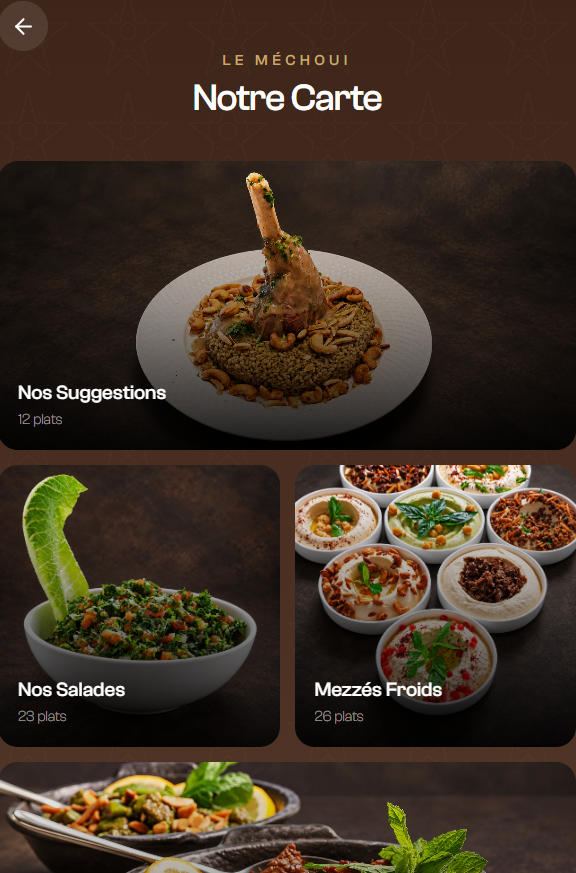
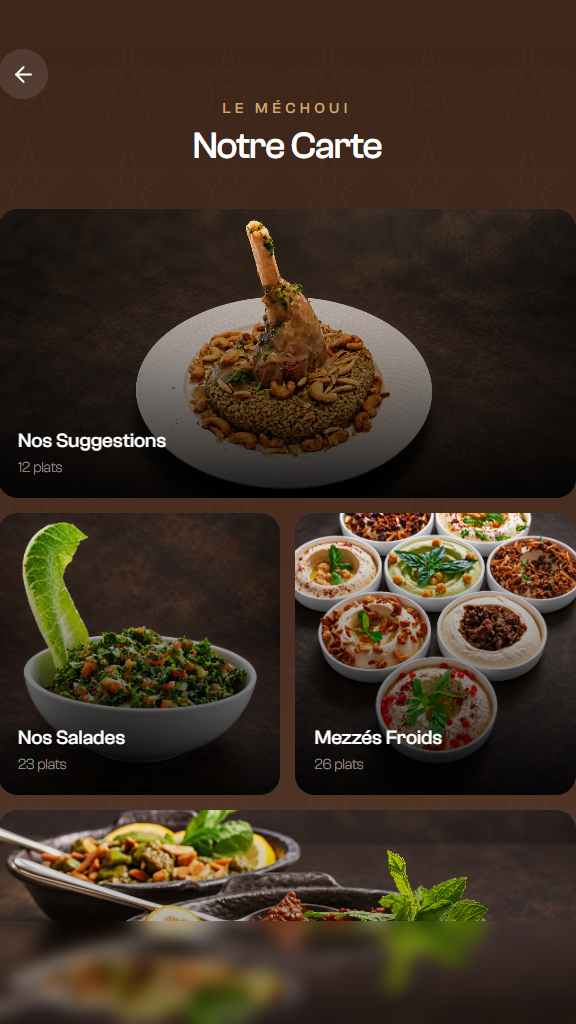
Mise a jour smartphone 9:16 et integration des 4 interfaces de Le Mechoui

diff --git a/index.html b/index.html
@@ -70,16 +70,19 @@
             </div>
           </div>
 
-          <!-- Écran intérieur du téléphone : diaporama animé avec transitions PowerPoint -->
+          <!-- Écran intérieur du téléphone : diaporama animé des interfaces Le Méchoui -->
           <div class="phone-screen" id="phoneScreen">
-            <div class="phone-slide is-active" data-index="0" role="tabpanel" aria-label="Menu Le Méchoui">
-              <img src="images/menu_mechoui.png" alt="Menu Le Méchoui" loading="eager" />
+            <div class="phone-slide is-active" data-index="0" role="tabpanel" aria-label="Le Méchoui - Choix de la langue">
+              <img src="images/menu_mechoui_langues.png" alt="Le Méchoui - Choix de la langue" loading="eager" />
             </div>
-            <div class="phone-slide" data-index="1" role="tabpanel" aria-label="Menu Rico Café">
-              <img src="images/menu_rico.png" alt="Menu Rico Café" loading="lazy" />
+            <div class="phone-slide" data-index="1" role="tabpanel" aria-label="Le Méchoui - Accueil & Services">
+              <img src="images/menu_mechoui_accueil.png" alt="Le Méchoui - Accueil & Services" loading="lazy" />
             </div>
-            <div class="phone-slide" data-index="2" role="tabpanel" aria-label="Menu Le Roi du Poulet">
-              <img src="images/menu_roi_poulet.png" alt="Menu Le Roi du Poulet" loading="lazy" />
+            <div class="phone-slide" data-index="2" role="tabpanel" aria-label="Le Méchoui - Notre Carte">
+              <img src="images/menu_mechoui_carte.png" alt="Le Méchoui - Notre Carte" loading="lazy" />
+            </div>
+            <div class="phone-slide" data-index="3" role="tabpanel" aria-label="Le Méchoui - Carte des Boissons">
+              <img src="images/menu_mechoui_boissons.png" alt="Le Méchoui - Carte des Boissons" loading="lazy" />
             </div>
             <!-- Reflet d'écran haut de gamme -->
             <div class="phone-glare" aria-hidden="true"></div>
@@ -90,21 +93,22 @@
       </div>
 
       <!-- Bouton navigation suivant -->
-      <button class="phone-nav-btn next" id="phoneNextBtn" aria-label="Menu suivant" title="Menu suivant">
+      <button class="phone-nav-btn next" id="phoneNextBtn" aria-label="Interface suivante" title="Interface suivante">
         <svg width="20" height="20" fill="none" stroke="currentColor" stroke-width="2.5" viewBox="0 0 24 24"><path d="M9 18l6-6-6-6"/></svg>
       </button>
     </div>
 
     <!-- Contrôles et indicateur en dessous du smartphone -->
     <div class="phone-bottom-bar">
-      <div class="phone-dots" id="phoneDots" role="tablist" aria-label="Navigation des menus">
-        <button class="phone-dot active" data-slide="0" role="tab" aria-selected="true" aria-label="Le Méchoui"></button>
-        <button class="phone-dot" data-slide="1" role="tab" aria-selected="false" aria-label="Rico Café"></button>
-        <button class="phone-dot" data-slide="2" role="tab" aria-selected="false" aria-label="Le Roi du Poulet"></button>
+      <div class="phone-dots" id="phoneDots" role="tablist" aria-label="Navigation des interfaces Le Méchoui">
+        <button class="phone-dot active" data-slide="0" role="tab" aria-selected="true" aria-label="Choix de la langue"></button>
+        <button class="phone-dot" data-slide="1" role="tab" aria-selected="false" aria-label="Accueil & Menus"></button>
+        <button class="phone-dot" data-slide="2" role="tab" aria-selected="false" aria-label="Notre Carte"></button>
+        <button class="phone-dot" data-slide="3" role="tab" aria-selected="false" aria-label="Carte des Boissons"></button>
       </div>
       <div class="phone-active-label" id="phoneActiveLabel">
         <span class="live-indicator"></span>
-        <strong id="restaurantTitle">Le Méchoui</strong>
+        <strong id="restaurantTitle">Le Méchoui · Choix de la langue</strong>
       </div>
     </div>
 

diff --git a/style.css b/style.css
@@ -160,8 +160,8 @@ button { border: none; cursor: pointer; font-family: inherit; }
   top: 50%;
   left: 50%;
   transform: translate(-50%, -50%);
-  width: 300px;
-  height: 490px;
+  width: 330px;
+  height: 550px;
   background: radial-gradient(circle, rgba(232, 96, 10, 0.16) 0%, rgba(232, 96, 10, 0.05) 45%, transparent 70%);
   filter: blur(40px);
   pointer-events: none;
@@ -169,15 +169,15 @@ button { border: none; cursor: pointer; font-family: inherit; }
 }
 
 .phone-frame {
-  width: 276px;
-  height: 494px;
-  border-radius: 42px;
+  box-sizing: content-box;
+  width: 288px;
+  height: 512px;
+  border-radius: 46px;
   border: 11px solid #1C1C1E;
   background: #111111;
   position: relative;
   box-shadow: 0 0 0 1px rgba(255, 255, 255, 0.18),
               0 24px 60px rgba(0, 0, 0, 0.30);
-  box-sizing: border-box;
   overflow: hidden;
 }
 
@@ -759,11 +759,13 @@ button { border: none; cursor: pointer; font-family: inherit; }
 
 @media (max-width: 900px) {
   :root { --section-py: 72px; }
-  .phone-showcase { height: 580px; }
-  .stream-viewport { height: 460px; top: 12px; }
-  .phone-wrapper { height: 460px; top: 12px; }
-  .phone-frame { width: 258px; height: 456px; border-width: 10px; border-radius: 40px; }
-  .stream-card { width: 238px; height: 436px; margin: 0 22px; border-radius: 30px; }
+  .phone-frame {
+    box-sizing: content-box;
+    width: 252px;
+    height: 448px;
+    border-width: 10px;
+    border-radius: 40px;
+  }
   .steps-grid { grid-template-columns: 1fr; }
   .steps-grid::before { display: none; }
   .advantages-layout { grid-template-columns: 1fr; gap: 48px; }
@@ -778,13 +780,15 @@ button { border: none; cursor: pointer; font-family: inherit; }
 }
 
 @media (max-width: 600px) {
-  .phone-showcase { height: 520px; }
-  .stream-viewport { height: 410px; top: 10px; }
-  .phone-wrapper { height: 410px; top: 10px; }
-  .phone-frame { width: 228px; height: 404px; border-width: 9px; border-radius: 34px; }
-  .stream-card { width: 210px; height: 386px; margin: 0 14px; border-radius: 25px; }
-  .stream-card.is-left { transform: scale(0.9); opacity: 0.55; }
-  .stream-card.is-right { transform: scale(0.9); opacity: 0.55; }
+  .phone-stage { gap: 12px; }
+  .phone-nav-btn { width: 38px; height: 38px; }
+  .phone-frame {
+    box-sizing: content-box;
+    width: 225px;
+    height: 400px;
+    border-width: 9px;
+    border-radius: 34px;
+  }
   .advantages-list { gap: 12px; margin-top: 20px; }
   .adv-item { padding: 14px 16px; gap: 14px; }
   .adv-num { width: 42px; height: 42px; font-size: 1.05rem; border-radius: 10px; }
@@ -800,6 +804,13 @@ button { border: none; cursor: pointer; font-family: inherit; }
   .hero-title { font-size: 2.2rem; }
   .hero-buttons { flex-direction: column; align-items: stretch; }
   .hero-buttons .btn { justify-content: center; }
+  .phone-frame {
+    box-sizing: content-box;
+    width: 207px;
+    height: 368px;
+    border-width: 8px;
+    border-radius: 30px;
+  }
   .nav-logo img { height: 38px; }
   .nav-cta .btn-sm { padding: 9px 16px; font-size: 13px; }
   .stats-grid { grid-template-columns: 1fr; }

diff --git a/script.js b/script.js
@@ -58,9 +58,10 @@ const prevBtn      = qs('#phonePrevBtn');
 const nextBtn      = qs('#phoneNextBtn');
 
 const RESTAURANT_DATA = [
-  { name: "Le Méchoui", tag: "Le Méchoui", price: "Libanais · Maison fondée en 1990" },
-  { name: "Rico Café", tag: "Rico Café", price: "Café & Snacking · Style vintage" },
-  { name: "Le Roi du Poulet", tag: "Le Roi du Poulet", price: "Fast-food libanais · Chawarma" }
+  { name: "Le Méchoui · Choix de la langue", tag: "Multilingue", price: "8 langues disponibles" },
+  { name: "Le Méchoui · Accueil & Menus", tag: "Accueil", price: "Cuisine Libanaise Authentique" },
+  { name: "Le Méchoui · Notre Carte", tag: "Menu principal", price: "Suggestions, Salades & Mezzés" },
+  { name: "Le Méchoui · Carte des Boissons", tag: "Boissons", price: "Cocktails, Vins & Spiritueux" }
 ];
 
 
